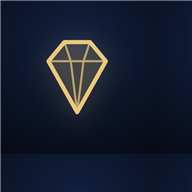
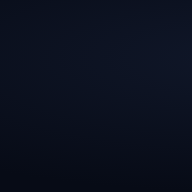
לוגו רמת גן: סמל העירייה בגרסת line-art זהב מותאמת לשפת האפליקציה
המגן, הדקל, השמש הזורחת ומגיני-הדוד מהסמל הרשמי — משורטטים מחדש בקווי
הזהב של האפליקציה (var(--gold), עובד בשני הת'ים). לוגו הוא עכשיו פר-עיר:
cities/<slug>.logo.svg + cities/<slug>-icons/ עם fallback ליהלום — גבעתיים
שומרת על היהלום. אייקוני ה-PWA של ר"ג הוחלפו לסמל על רקע כהה.

diff --git a/dist-artifact.html b/dist-artifact.html
@@ -734,10 +734,19 @@ textarea.f-in{resize:vertical;min-height:74px}
 </style>
 
 <div id="loader" role="status">
-  <svg class="ldr-mark" viewBox="0 0 64 64" fill="none" aria-hidden="true">
-    <path d="M14 22 L24 10 H40 L50 22 L32 54 Z" stroke="#e3c27e" stroke-width="2.2" stroke-linejoin="round"/>
-    <path d="M14 22 H50 M24 10 L28 22 L32 54 M40 10 L36 22 L32 54" stroke="#e3c27e" stroke-width="1.1" opacity=".65"/>
-  </svg>
+  <svg class="ldr-mark" viewBox="0 0 64 64" fill="none" aria-hidden="true"><path d="M10 12 L32 16 L54 12 C55 32 47 46 32 56 C17 46 9 32 10 12 Z"
+      stroke="var(--gold)" stroke-width="2.4" stroke-linejoin="round" fill="rgba(227,194,126,.09)"/>
+<path d="M20 40 H44" stroke="var(--gold)" stroke-width="1.1" opacity=".55" stroke-linecap="round"/>
+<path d="M25 40 A7 7 0 0 1 39 40" stroke="var(--gold)" stroke-width="1.4" stroke-linecap="round"/>
+<path d="M39.8 35.5 L44.6 32.7 M36.5 32.2 L39.3 27.4 M27.5 32.2 L24.7 27.4 M24.2 35.5 L19.4 32.7"
+      stroke="var(--gold)" stroke-width="1.3" opacity=".75" stroke-linecap="round"/>
+<path d="M32 44 C31.3 39 31.3 35 32 30.5" stroke="var(--gold)" stroke-width="1.6" stroke-linecap="round"/>
+<path d="M32 30.5 Q26 27.5 21.5 29.5 M32 30.5 Q27 24.5 23 24.5 M32 30.5 Q38 27.5 42.5 29.5 M32 30.5 Q37 24.5 41 24.5 M32 30.5 Q33.5 23.5 37 21.8 M32 30.5 Q30.5 23.5 27 21.8"
+      stroke="var(--gold)" stroke-width="1.35" stroke-linecap="round"/>
+<g fill="var(--gold)" opacity=".8">
+  <path d="M17 21.6 L19.08 24.2 L14.92 24.2 Z M17 26.4 L19.08 23.8 L14.92 23.8 Z"/>
+  <path d="M47 21.6 L49.08 24.2 L44.92 24.2 Z M47 26.4 L49.08 23.8 L44.92 23.8 Z"/>
+</g></svg>
   <div class="ldr-city">רמת גן</div>
   <div class="ldr-sub">המפה החיה</div>
   <div class="ldr-bar"><i id="ldrFill"></i></div>
@@ -761,10 +770,19 @@ textarea.f-in{resize:vertical;min-height:74px}
 </div>
 
 <div id="brand">
-  <svg viewBox="0 0 64 64" fill="none" aria-hidden="true">
-    <path d="M14 22 L24 10 H40 L50 22 L32 54 Z" stroke="var(--gold)" stroke-width="2.4" stroke-linejoin="round" fill="rgba(227,194,126,.09)"/>
-    <path d="M14 22 H50 M24 10 L28 22 L32 54 M40 10 L36 22 L32 54" stroke="var(--gold)" stroke-width="1.2" opacity=".6"/>
-  </svg>
+  <svg viewBox="0 0 64 64" fill="none" aria-hidden="true"><path d="M10 12 L32 16 L54 12 C55 32 47 46 32 56 C17 46 9 32 10 12 Z"
+      stroke="var(--gold)" stroke-width="2.4" stroke-linejoin="round" fill="rgba(227,194,126,.09)"/>
+<path d="M20 40 H44" stroke="var(--gold)" stroke-width="1.1" opacity=".55" stroke-linecap="round"/>
+<path d="M25 40 A7 7 0 0 1 39 40" stroke="var(--gold)" stroke-width="1.4" stroke-linecap="round"/>
+<path d="M39.8 35.5 L44.6 32.7 M36.5 32.2 L39.3 27.4 M27.5 32.2 L24.7 27.4 M24.2 35.5 L19.4 32.7"
+      stroke="var(--gold)" stroke-width="1.3" opacity=".75" stroke-linecap="round"/>
+<path d="M32 44 C31.3 39 31.3 35 32 30.5" stroke="var(--gold)" stroke-width="1.6" stroke-linecap="round"/>
+<path d="M32 30.5 Q26 27.5 21.5 29.5 M32 30.5 Q27 24.5 23 24.5 M32 30.5 Q38 27.5 42.5 29.5 M32 30.5 Q37 24.5 41 24.5 M32 30.5 Q33.5 23.5 37 21.8 M32 30.5 Q30.5 23.5 27 21.8"
+      stroke="var(--gold)" stroke-width="1.35" stroke-linecap="round"/>
+<g fill="var(--gold)" opacity=".8">
+  <path d="M17 21.6 L19.08 24.2 L14.92 24.2 Z M17 26.4 L19.08 23.8 L14.92 23.8 Z"/>
+  <path d="M47 21.6 L49.08 24.2 L44.92 24.2 Z M47 26.4 L49.08 23.8 L44.92 23.8 Z"/>
+</g></svg>
   <div><div class="t1">רמת גן</div><div class="t2">המפה החיה</div></div>
 </div>
 

diff --git a/index.html b/index.html
@@ -751,10 +751,19 @@ textarea.f-in{resize:vertical;min-height:74px}
 </style>
 
 <div id="loader" role="status">
-  <svg class="ldr-mark" viewBox="0 0 64 64" fill="none" aria-hidden="true">
-    <path d="M14 22 L24 10 H40 L50 22 L32 54 Z" stroke="#e3c27e" stroke-width="2.2" stroke-linejoin="round"/>
-    <path d="M14 22 H50 M24 10 L28 22 L32 54 M40 10 L36 22 L32 54" stroke="#e3c27e" stroke-width="1.1" opacity=".65"/>
-  </svg>
+  <svg class="ldr-mark" viewBox="0 0 64 64" fill="none" aria-hidden="true"><path d="M10 12 L32 16 L54 12 C55 32 47 46 32 56 C17 46 9 32 10 12 Z"
+      stroke="var(--gold)" stroke-width="2.4" stroke-linejoin="round" fill="rgba(227,194,126,.09)"/>
+<path d="M20 40 H44" stroke="var(--gold)" stroke-width="1.1" opacity=".55" stroke-linecap="round"/>
+<path d="M25 40 A7 7 0 0 1 39 40" stroke="var(--gold)" stroke-width="1.4" stroke-linecap="round"/>
+<path d="M39.8 35.5 L44.6 32.7 M36.5 32.2 L39.3 27.4 M27.5 32.2 L24.7 27.4 M24.2 35.5 L19.4 32.7"
+      stroke="var(--gold)" stroke-width="1.3" opacity=".75" stroke-linecap="round"/>
+<path d="M32 44 C31.3 39 31.3 35 32 30.5" stroke="var(--gold)" stroke-width="1.6" stroke-linecap="round"/>
+<path d="M32 30.5 Q26 27.5 21.5 29.5 M32 30.5 Q27 24.5 23 24.5 M32 30.5 Q38 27.5 42.5 29.5 M32 30.5 Q37 24.5 41 24.5 M32 30.5 Q33.5 23.5 37 21.8 M32 30.5 Q30.5 23.5 27 21.8"
+      stroke="var(--gold)" stroke-width="1.35" stroke-linecap="round"/>
+<g fill="var(--gold)" opacity=".8">
+  <path d="M17 21.6 L19.08 24.2 L14.92 24.2 Z M17 26.4 L19.08 23.8 L14.92 23.8 Z"/>
+  <path d="M47 21.6 L49.08 24.2 L44.92 24.2 Z M47 26.4 L49.08 23.8 L44.92 23.8 Z"/>
+</g></svg>
   <div class="ldr-city">רמת גן</div>
   <div class="ldr-sub">המפה החיה</div>
   <div class="ldr-bar"><i id="ldrFill"></i></div>
@@ -778,10 +787,19 @@ textarea.f-in{resize:vertical;min-height:74px}
 </div>
 
 <div id="brand">
-  <svg viewBox="0 0 64 64" fill="none" aria-hidden="true">
-    <path d="M14 22 L24 10 H40 L50 22 L32 54 Z" stroke="var(--gold)" stroke-width="2.4" stroke-linejoin="round" fill="rgba(227,194,126,.09)"/>
-    <path d="M14 22 H50 M24 10 L28 22 L32 54 M40 10 L36 22 L32 54" stroke="var(--gold)" stroke-width="1.2" opacity=".6"/>
-  </svg>
+  <svg viewBox="0 0 64 64" fill="none" aria-hidden="true"><path d="M10 12 L32 16 L54 12 C55 32 47 46 32 56 C17 46 9 32 10 12 Z"
+      stroke="var(--gold)" stroke-width="2.4" stroke-linejoin="round" fill="rgba(227,194,126,.09)"/>
+<path d="M20 40 H44" stroke="var(--gold)" stroke-width="1.1" opacity=".55" stroke-linecap="round"/>
+<path d="M25 40 A7 7 0 0 1 39 40" stroke="var(--gold)" stroke-width="1.4" stroke-linecap="round"/>
+<path d="M39.8 35.5 L44.6 32.7 M36.5 32.2 L39.3 27.4 M27.5 32.2 L24.7 27.4 M24.2 35.5 L19.4 32.7"
+      stroke="var(--gold)" stroke-width="1.3" opacity=".75" stroke-linecap="round"/>
+<path d="M32 44 C31.3 39 31.3 35 32 30.5" stroke="var(--gold)" stroke-width="1.6" stroke-linecap="round"/>
+<path d="M32 30.5 Q26 27.5 21.5 29.5 M32 30.5 Q27 24.5 23 24.5 M32 30.5 Q38 27.5 42.5 29.5 M32 30.5 Q37 24.5 41 24.5 M32 30.5 Q33.5 23.5 37 21.8 M32 30.5 Q30.5 23.5 27 21.8"
+      stroke="var(--gold)" stroke-width="1.35" stroke-linecap="round"/>
+<g fill="var(--gold)" opacity=".8">
+  <path d="M17 21.6 L19.08 24.2 L14.92 24.2 Z M17 26.4 L19.08 23.8 L14.92 23.8 Z"/>
+  <path d="M47 21.6 L49.08 24.2 L44.92 24.2 Z M47 26.4 L49.08 23.8 L44.92 23.8 Z"/>
+</g></svg>
   <div><div class="t1">רמת גן</div><div class="t2">המפה החיה</div></div>
 </div>
 

diff --git a/src/template.html b/src/template.html
@@ -724,10 +724,7 @@ textarea.f-in{resize:vertical;min-height:74px}
 </style>
 
 <div id="loader" role="status">
-  <svg class="ldr-mark" viewBox="0 0 64 64" fill="none" aria-hidden="true">
-    <path d="M14 22 L24 10 H40 L50 22 L32 54 Z" stroke="#e3c27e" stroke-width="2.2" stroke-linejoin="round"/>
-    <path d="M14 22 H50 M24 10 L28 22 L32 54 M40 10 L36 22 L32 54" stroke="#e3c27e" stroke-width="1.1" opacity=".65"/>
-  </svg>
+  <svg class="ldr-mark" viewBox="0 0 64 64" fill="none" aria-hidden="true">{{LOGO_PATHS}}</svg>
   <div class="ldr-city">{{NAME_HE}}</div>
   <div class="ldr-sub">המפה החיה</div>
   <div class="ldr-bar"><i id="ldrFill"></i></div>
@@ -751,10 +748,7 @@ textarea.f-in{resize:vertical;min-height:74px}
 </div>
 
 <div id="brand">
-  <svg viewBox="0 0 64 64" fill="none" aria-hidden="true">
-    <path d="M14 22 L24 10 H40 L50 22 L32 54 Z" stroke="var(--gold)" stroke-width="2.4" stroke-linejoin="round" fill="rgba(227,194,126,.09)"/>
-    <path d="M14 22 H50 M24 10 L28 22 L32 54 M40 10 L36 22 L32 54" stroke="var(--gold)" stroke-width="1.2" opacity=".6"/>
-  </svg>
+  <svg viewBox="0 0 64 64" fill="none" aria-hidden="true">{{LOGO_PATHS}}</svg>
   <div><div class="t1">{{NAME_HE}}</div><div class="t2">{{SUBTITLE}}</div></div>
 </div>
 

diff --git a/cities/givatayim/index.html b/cities/givatayim/index.html
@@ -752,9 +752,8 @@ textarea.f-in{resize:vertical;min-height:74px}
 
 <div id="loader" role="status">
   <svg class="ldr-mark" viewBox="0 0 64 64" fill="none" aria-hidden="true">
-    <path d="M14 22 L24 10 H40 L50 22 L32 54 Z" stroke="#e3c27e" stroke-width="2.2" stroke-linejoin="round"/>
-    <path d="M14 22 H50 M24 10 L28 22 L32 54 M40 10 L36 22 L32 54" stroke="#e3c27e" stroke-width="1.1" opacity=".65"/>
-  </svg>
+    <path d="M14 22 L24 10 H40 L50 22 L32 54 Z" stroke="var(--gold)" stroke-width="2.4" stroke-linejoin="round" fill="rgba(227,194,126,.09)"/>
+    <path d="M14 22 H50 M24 10 L28 22 L32 54 M40 10 L36 22 L32 54" stroke="var(--gold)" stroke-width="1.2" opacity=".6"/></svg>
   <div class="ldr-city">גבעתיים</div>
   <div class="ldr-sub">המפה החיה</div>
   <div class="ldr-bar"><i id="ldrFill"></i></div>
@@ -780,8 +779,7 @@ textarea.f-in{resize:vertical;min-height:74px}
 <div id="brand">
   <svg viewBox="0 0 64 64" fill="none" aria-hidden="true">
     <path d="M14 22 L24 10 H40 L50 22 L32 54 Z" stroke="var(--gold)" stroke-width="2.4" stroke-linejoin="round" fill="rgba(227,194,126,.09)"/>
-    <path d="M14 22 H50 M24 10 L28 22 L32 54 M40 10 L36 22 L32 54" stroke="var(--gold)" stroke-width="1.2" opacity=".6"/>
-  </svg>
+    <path d="M14 22 H50 M24 10 L28 22 L32 54 M40 10 L36 22 L32 54" stroke="var(--gold)" stroke-width="1.2" opacity=".6"/></svg>
   <div><div class="t1">גבעתיים</div><div class="t2">המפה החיה</div></div>
 </div>
 